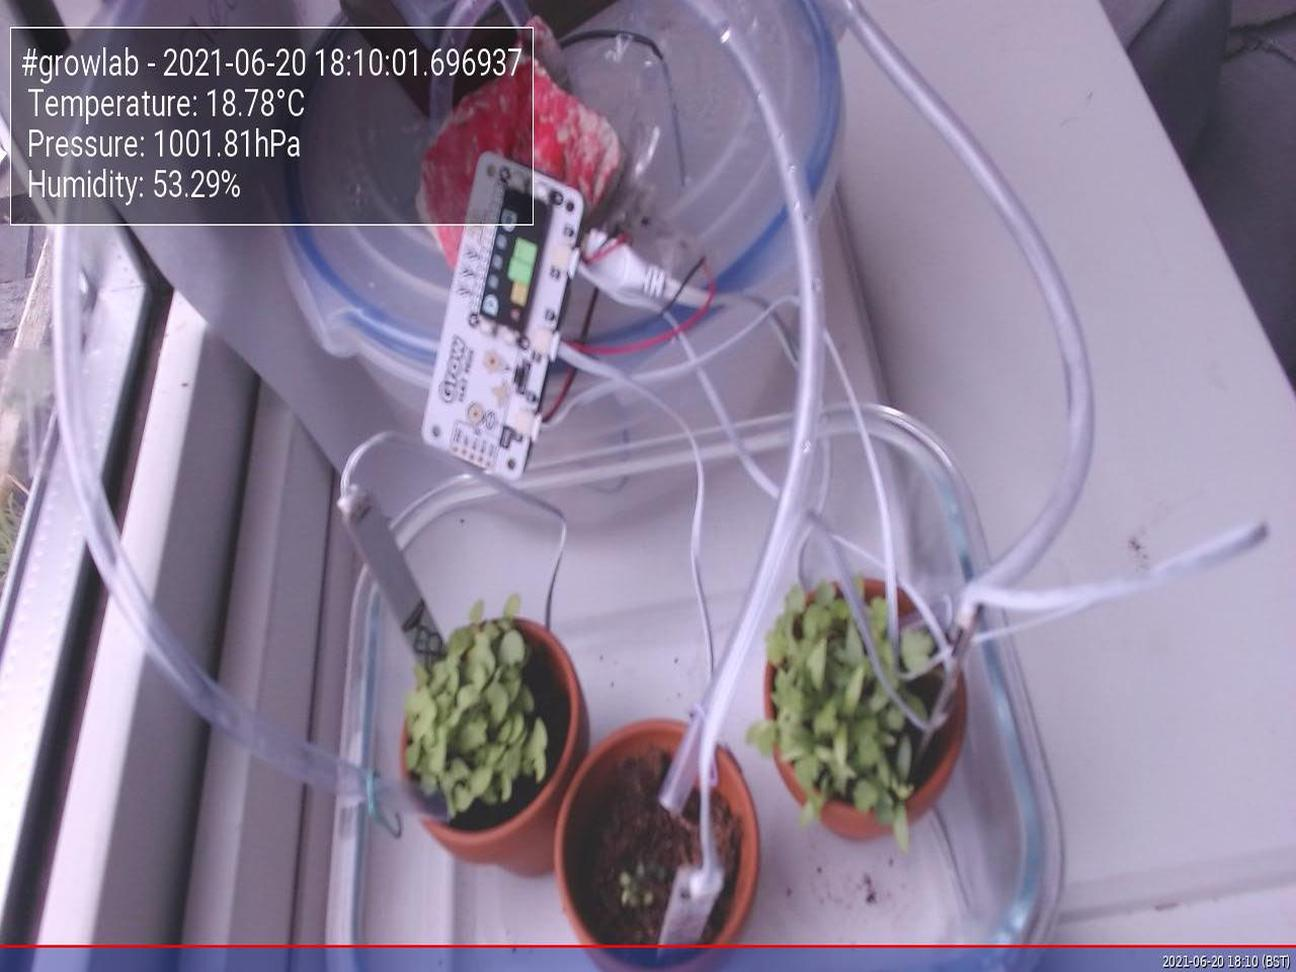
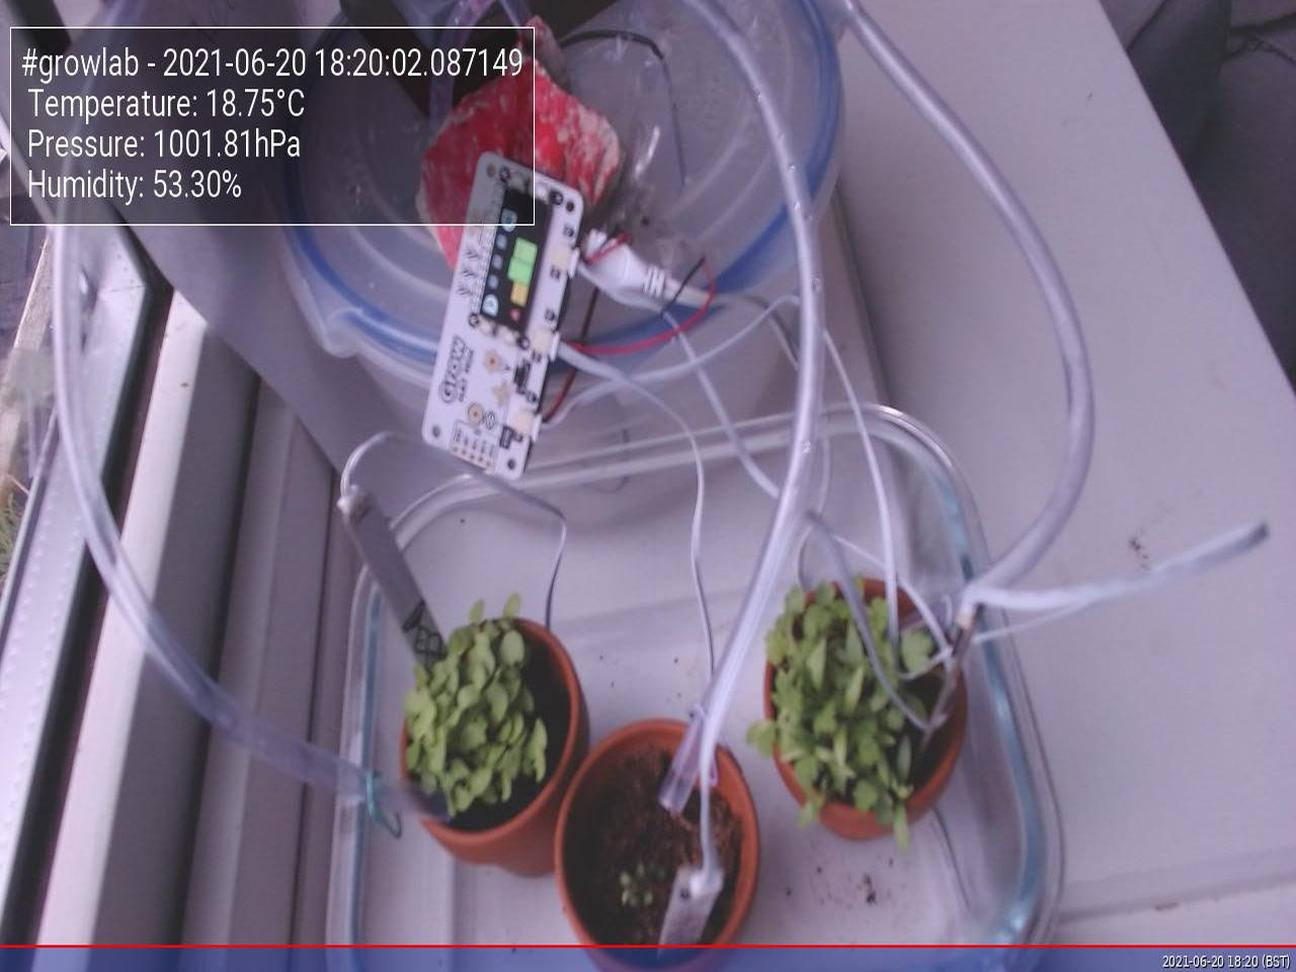
Update images at Sun 20 Jun 18:20:05 BST 2021

diff --git a/app/docs/index.html b/app/docs/index.html
@@ -47,15 +47,15 @@
                         <tbody>
                             <tr>
                                 <td>Time</td>
-                                <td>2021-06-20 18:10:01.696937</td>
+                                <td>2021-06-20 18:20:02.087149</td>
                             </tr>
                             <tr>
                                 <td>Temperature</td>
-                                <td>18.78°C</td>
+                                <td>18.75°C</td>
                             </tr>
                             <tr>
                                 <td>Humidity</td>
-                                <td>53.29%</td>
+                                <td>53.30%</td>
                             </tr>
                             <tr>
                                 <td>Pressure</td>
@@ -67,7 +67,7 @@
 
                 <h5>Latest image</h5>
                 <div style="width: 85%;">
-                            <img class="figure-img img-fluid rounded" src="./preview.jpg?uid=1624209005.4229894">
+                            <img class="figure-img img-fluid rounded" src="./preview.jpg?uid=1624209605.8378448">
                 </div>
             </div>
         </div>
